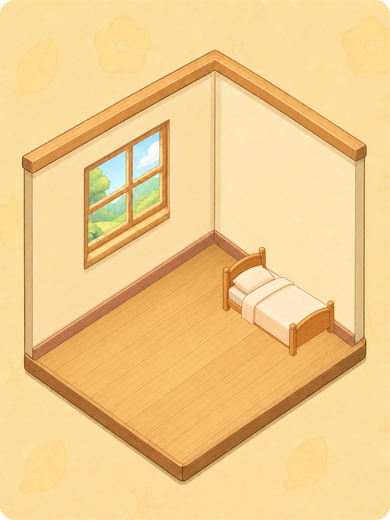
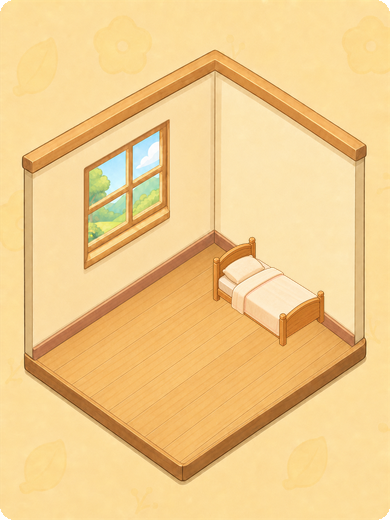
Align fixed room item positions

Changed region(s): [[0.5231, 0.4615, 0.8615, 0.7077]]

diff --git a/src/constants/room-definitions.room.test.ts b/src/constants/room-definitions.room.test.ts
@@ -44,6 +44,15 @@ describe('fixed room slots', () => {
     expect(slot('APPLIANCE_SLOT')).toMatchObject({ x: 105, y: 755 });
   });
 
+  it('anchors the bed, desk drink, and floor plant inside their surfaces', () => {
+    const slot = (id: string) =>
+      STUDIO_001_SLOTS.find((candidate) => candidate.id === id);
+
+    expect(slot('BED_SLOT')).toMatchObject({ x: 525, y: 725 });
+    expect(slot('DESK_DRINK_SLOT')).toMatchObject({ x: 320, y: 590 });
+    expect(slot('PLANT_SLOT_1')).toMatchObject({ x: 625, y: 745 });
+  });
+
   it('uses a stable floor plant asset without visit randomness', () => {
     const first = roomItemAsset('plant-pothos', 'PLANT_SLOT_1');
     const second = roomItemAsset('plant-pothos', 'PLANT_SLOT_1');

diff --git a/src/constants/room-definitions.ts b/src/constants/room-definitions.ts
@@ -53,8 +53,8 @@ export const STUDIO_001_SLOTS: RoomSlotDefinition[] = [
   {
     id: 'BED_SLOT',
     category: 'BED',
-    x: 545,
-    y: 745,
+    x: 525,
+    y: 725,
     width: 300,
     height: 300,
     zIndex: 20,
@@ -73,8 +73,8 @@ export const STUDIO_001_SLOTS: RoomSlotDefinition[] = [
   {
     id: 'DESK_DRINK_SLOT',
     category: 'DRINK',
-    x: 350,
-    y: 525,
+    x: 320,
+    y: 590,
     width: 65,
     height: 65,
     zIndex: 37,
@@ -103,8 +103,8 @@ export const STUDIO_001_SLOTS: RoomSlotDefinition[] = [
   {
     id: 'PLANT_SLOT_1',
     category: 'PLANT',
-    x: 675,
-    y: 765,
+    x: 625,
+    y: 745,
     width: 130,
     height: 175,
     zIndex: 50,
